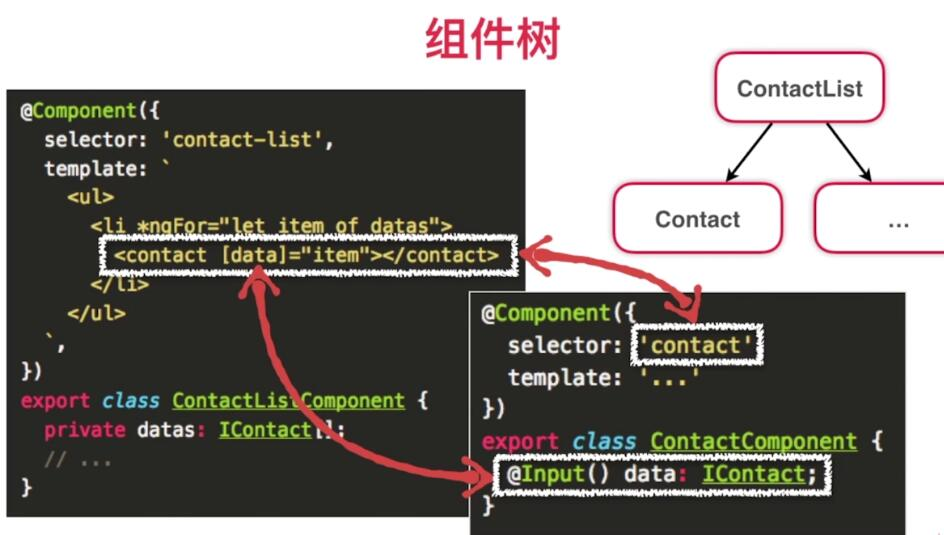
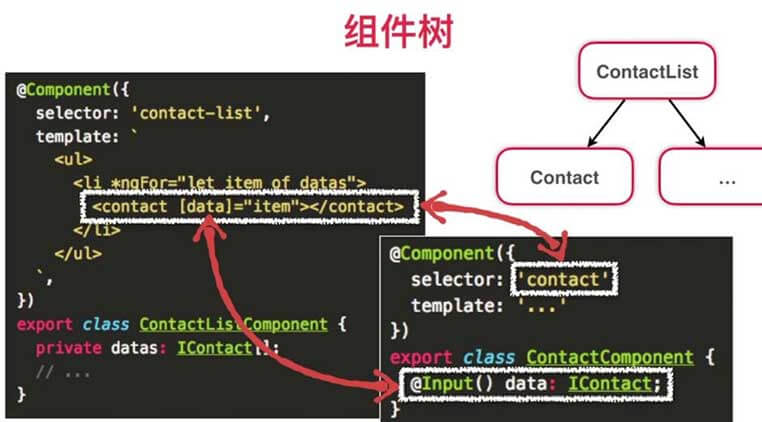
minify imgs

diff --git a/ng2_basic.md b/ng2_basic.md
@@ -1,10 +1,10 @@
 # Angular2 的核心概念
 
-![](./images/1.png)
+![](./images/1.jpg)
 
 ## 1.Components 组件 Templates 模板 Metadata 元数据 Data binding 数据绑定
 
-![](./images/2.png)
+![](./images/2.jpg)
 
 ### 1.1 组件及示例代码
 
@@ -26,7 +26,7 @@
         }
     }
 
-![](./images/5.png)
+![](./images/5.jpg)
 
 1.1.1 装饰器：@Component
 
@@ -62,13 +62,13 @@
 
 ### 1.3 组件间的通讯机制及数据流向
 
-![](./images/3.png)
+![](./images/3.jpg)
 
-![](./images/7.png)
+![](./images/7.jpg)
 
 ### 1.4 组件的生命周期及其钩子
 
-![](./images/4.png)
+![](./images/4.jpg)
 
 1.Constructor 构造器初始化：变量的初始赋值
 
@@ -131,7 +131,7 @@
 
 `依赖注入`是`组件`引入`外部构建`（如服务）的一种机制。最常见的是组件引入服务。引用服务其实引用的是`服务类的实例`，所以服务在引入之前有一个`实例化`的过程，并且`这个实例`通常要被缓存起来`注入器对象`中，以供其他组件使用。
 
-![](./images/8.png)
+![](./images/8.jpg)
 
 示例：
 
@@ -159,7 +159,7 @@
 
 在父组件中依赖注入的服务，在`组件本身及其子组件`都能使用。
 
-![](./images/9.png)
+![](./images/9.jpg)
 
 ## 5. Modules 模块
 
@@ -177,7 +177,7 @@
 
 5.其他模块
 
-![](./images/10.png)
+![](./images/10.jpg)
 
 5.1.2 模块的使用：
 
